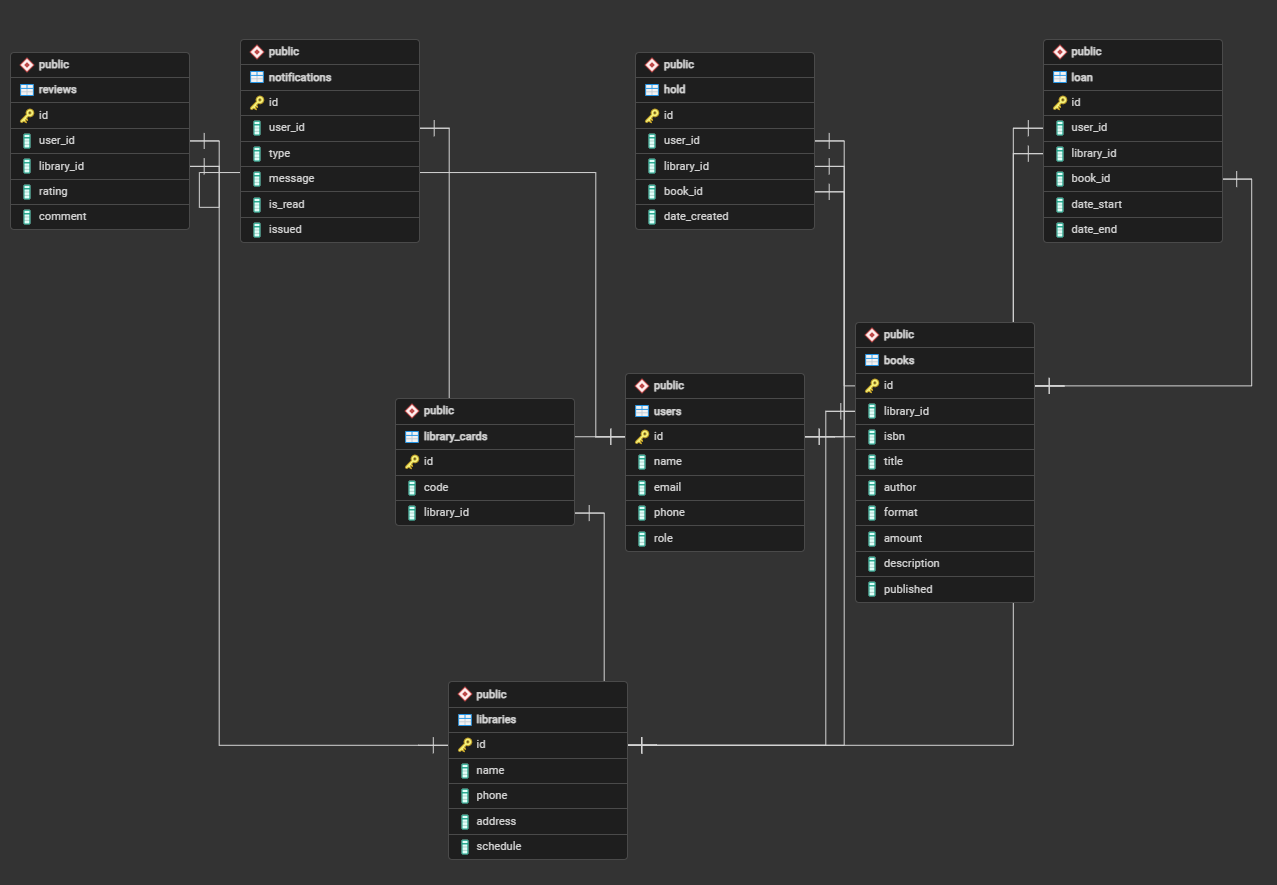
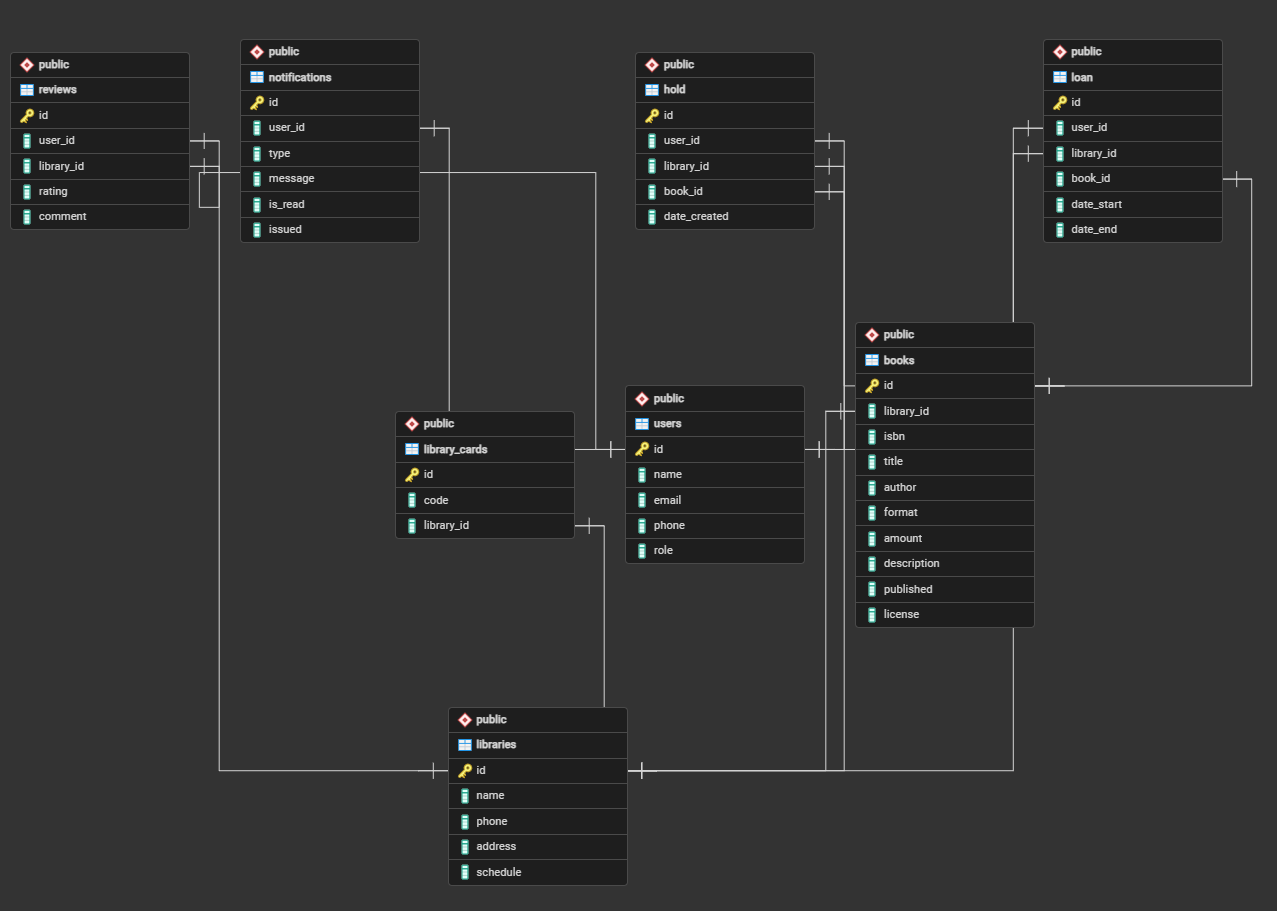
Add plan

diff --git a/README.md b/README.md
@@ -1,4 +1,4 @@
-# 🔖 Libby — Электронная библиотека
+# 🔖 Liddy — Электронная библиотека
 
 ## 📦 Стек технологий
 
@@ -16,14 +16,14 @@
 
 ### Идея
 
-Цель данного проекта состоит в создании приложения, которое превращает обычный библиотечный билет в цифровой доступ к книгам и аудиокнигам. Через него пользователь может находить, брать “на время” и читать книги из фондов своей библиотеки прямо на смартфоне или планшете — почти так же просто, как пользоваться стриминговым сервисом.
+Цель данного проекта состоит в создании приложения, которое превращает обычный библиотечный билет в цифровой доступ к книгам и аудиокнигам. Через него пользователь может находить, брать "на время" и читать книги из фондов своей библиотеки почти так же просто, как пользоваться стриминговым сервисом.
 
-С технической точки зрения Libby — это удобный интерфейс поверх библиотечной системы: он подключается к каталогу, проверяет доступность лицензий, управляет очередями и автоматически “возвращает” книги после окончания срока. В результате пользователь получает простой и современный опыт чтения, а библиотеки — инструмент для распространения цифрового контента без необходимости разрабатывать собственные приложения.
+С технической точки зрения Liddy — это удобный интерфейс поверх библиотечной системы: он подключается к каталогу, проверяет доступность лицензий, управляет очередями и автоматически "возвращает" книги после окончания срока. В результате пользователь получает простой и современный опыт чтения, а библиотеки — инструмент для распространения цифрового контента без необходимости разрабатывать собственные приложения.
 
 ### Целевая аудитория
 
-- **Клиенты** — люди, которые хотят быстро и удобно брать книги, как элктронные так и физические.
-- **Библиотекари/Муниципалитет** — хотят вдохнуть новую жизнь в библиотеки, привлечь новых посетителей.
+- **Клиенты** — люди, которые хотят быстро и удобно брать книги, как элктронные так и физические; люди, которые хотят читать бесплатно или дешевле.
+- **Библиотекари** — хотят увеличить использование фондов, хотят привлекать новую аудиторию, нуждаются в цифровых решениях.
 
 ### 🖥 Ключевые экраны и функциональность
 
@@ -35,7 +35,7 @@
 | **Каталог** | Поиск, фильтрация |
 | **Карточка книги** | Бронирование книги, рейтинг, комментарии |
 | **Личный кабинет** | История выданных книг, редактирование профиля, смена пароля |
-| **Мои книги** | Список книг со статусом, возможность отменить бронирование |
+| **Мои книги** | Список книг со статусом, возможность отменить бронирование, читалка для электронных изданий |
 
 #### Для библиотекаря / владельца (роль: `master`)
 
@@ -51,7 +51,13 @@
 
 | Экран | Что можно делать |
 |-------|-----------------|
-| **Admin-панель** | Управление пользователями, библиотеками |
+| **Admin-панель** | Управление пользователями, библиотеками; модерирование отзывов |
+
+### ✨ Уникальные фичи
+
+1. **Email-уведомления** — уведомление о доступности изданий, напоминание о сроках возврата
+2. **Карта библиотек** — интеграция с Yandex Maps, геолокация пользователя
+3. ***Читалка для электронных изданий**
 
 ## 🗂 Сущности системы
 
@@ -59,7 +65,7 @@
 |----------|--------------|
 | `User` | id, name, email, password_hash, phone, role, avatar_url |
 | `Library` | id, phone, address, schedule |
-| `Book` | id, library_id, isbn, title, author, annotation, year_published, format, amount |
+| `Book` | id, library_id, isbn, title, author, annotation, year_published, format, amount, license |
 | `Review` | id, user_id, library_id, rating, comment |
 | `Hold` | id, user_id, book_id, library_id, date_created |
 | `Loan` | id, book_id, library_id, user_id, date_start, date_end |
@@ -69,3 +75,59 @@
 ## 🗃 ER-диаграмма
 
 ![image](erd.png)
+
+## 👤 User Stories
+
+```
+    Как читатель, я хочу взять книгу в один клик, чтобы начать читать без лишних шагов.
+    Как читатель, я хочу встать в очередь на книгу, если она занята, и получить уведомнение о свободном издании.
+    Как читатель, я хочу видеть все взятые книги в одном месте.
+    Как читатель, я хочу читать книгу прямо в приложении, чтобы не использовать сторонние сервисы.
+
+    Как библиотекарь, я хочу добавлять и удалять лицензии на книги, чтобы управлять коллекцией.
+    Как библиотекарь, я хочу видеть статистику выдач и популярности, чтобы развивать фонд.
+
+    Как admin, я хочу модерировать отзывы и управлять библиотеками, чтобы поддерживать качество платформы.
+```
+
+## 🗺 План действий
+
+### Общая диаграмма (Gantt-стиль)
+
+```
+Неделя  │ 1  │ 2  │ 3  │ 4  │ 5  │ 6  │ 7  │ 8  │ 9  │ 10 │
+────────────────────────────────────────────────────────────────
+Проект. │████│████│    │    │    │    │    │    │    │    │
+Фронтенд│    │░░░░│████│████│████│    │    │    │    │    │
+Бэкенд  │    │    │    │████│████│████│    │    │    │    │
+Интеграц│    │    │    │    │    │░░░░│████│    │    │    │
+Финал   │    │    │    │    │    │    │    │████│████│████│
+
+████ — активная разработка    ░░░░ — старт / подготовка
+```
+
+#### 1. Проектирование *(до 5 мая)*
+
+- [x] Описание идеи и целевой аудитории
+- [x] User stories для каждой роли
+- [x] Список сущностей и связей
+- [x] ER-диаграмма (черновик)
+- [x] Список экранов
+
+#### 2. Frontend — базовая структура *(до 14 мая)*
+
+- [ ] Wireframes в Figma (главная, карточка мастера, форма записи)
+- [ ] Структура папок фронта и бэка
+- [ ] Настройка роутинга (React Router v6)
+- [ ] Layout: шапка, навигация, футер
+- [ ] Базовые UI-компоненты: Button, Input, Card, Modal
+- [ ] Настройка Zustand (authStore)
+- [ ] Страницы: Login, Register, Home (заглушки)
+
+#### 3. Backend — ядро *(до 26 мая)*
+
+#### 4. Frontend — основные экраны *(до 9 июня)*
+
+#### 5. Интеграция и полировка *(до 20 июня)*
+
+#### 6. Финализация и подготовка к защите *(до 1 июля)*
